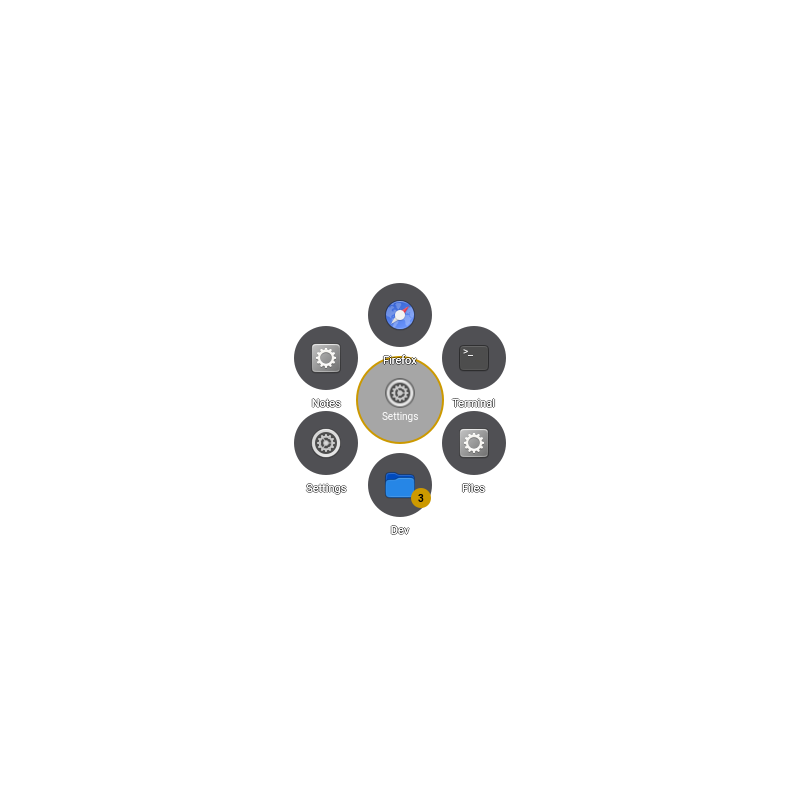
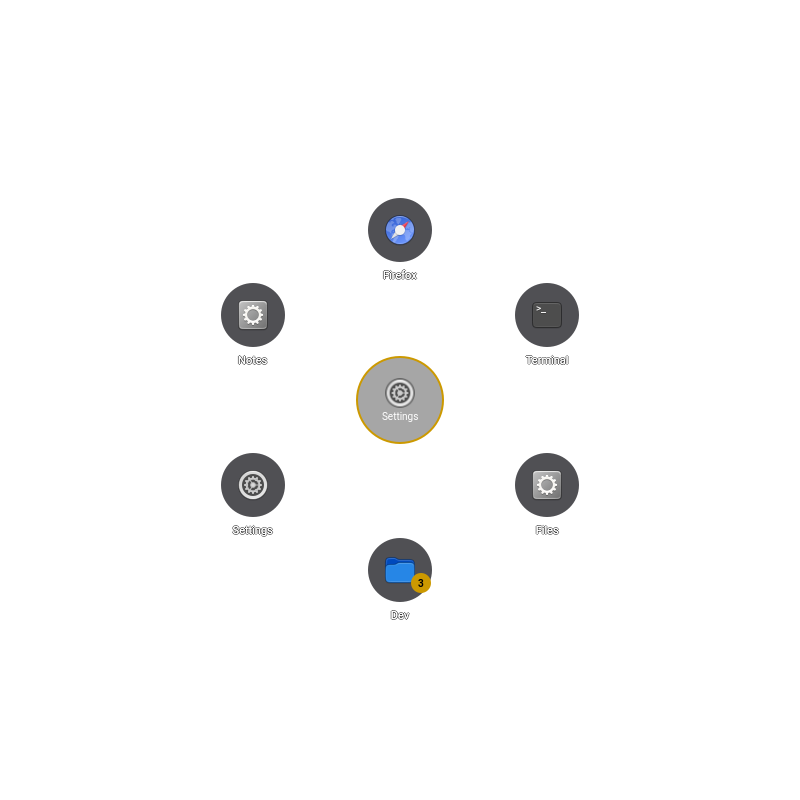
Double the ring radius: more air around the cells

Changed region(s): [[0.25, 0.25, 0.75, 0.7812]]

diff --git a/src/OverlayRoot.qml b/src/OverlayRoot.qml
@@ -9,12 +9,11 @@ Item {
     readonly property real cx: win.cx
     readonly property real cy: win.cy
     readonly property int count: backend.items.length
-    // The ring hugs the center button: its edge sits 8px from the button's
-    // edge (44 + 33 + 8). Cells shrink when there are many, so neighbors
-    // keep a small gap instead of overlapping.
-    readonly property real ringRadius: 85
+    // A comfortable gap from the center button; cells shrink when there are
+    // many, so neighbors keep a small gap instead of overlapping.
+    readonly property real ringRadius: 170
     readonly property int cellSize: count > 0
-        ? Math.max(40, Math.min(66, Math.floor(2 * Math.PI * ringRadius / count) - 8))
+        ? Math.max(44, Math.min(66, Math.floor(2 * Math.PI * ringRadius / count) - 8))
         : 66
     property int launchingIndex: -1
     property int hoveredIndex: -1
